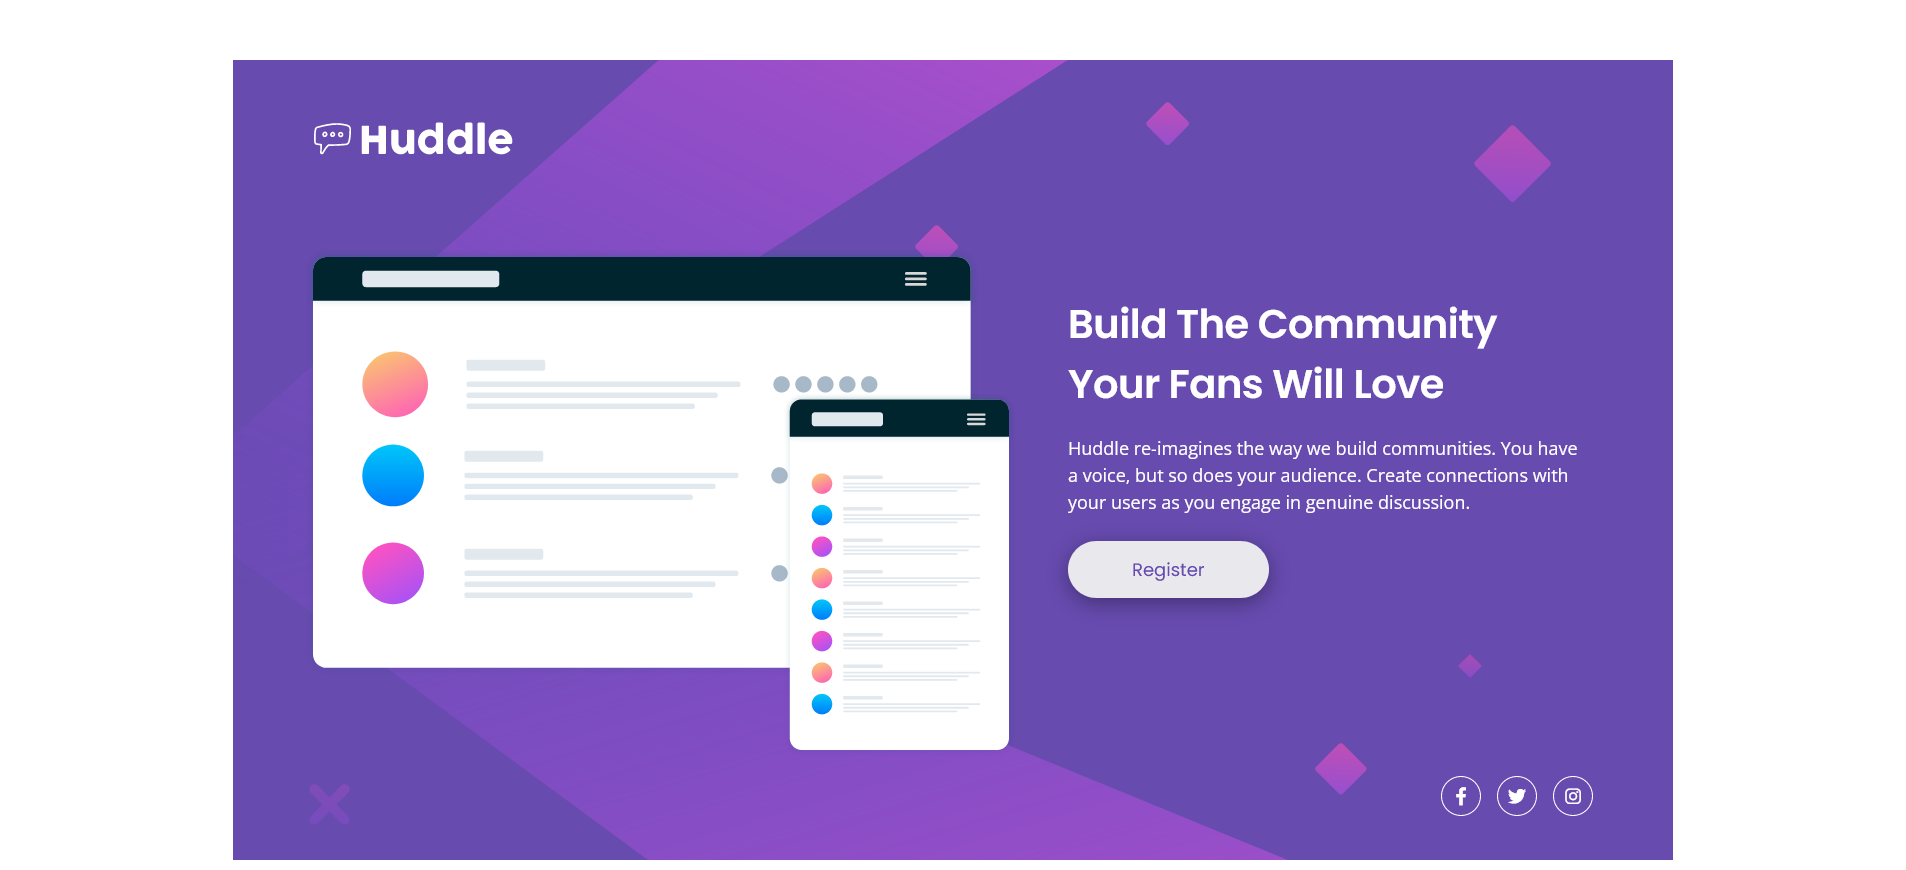
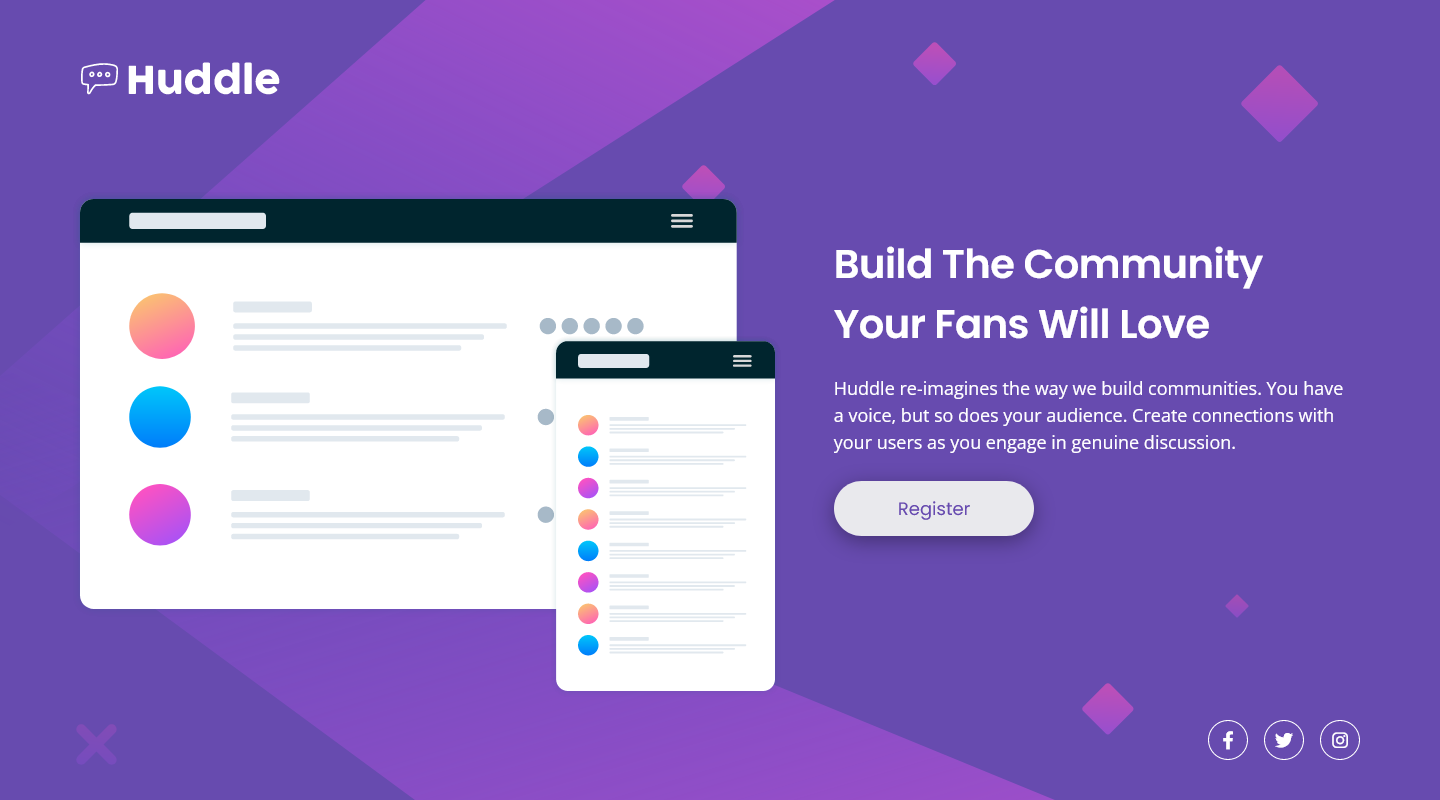
Add files via upload

diff --git a/style.css b/style.css
@@ -35,21 +35,28 @@ main {
 /* ------------CONTENT------------ */
 .content {
   display: grid;
-  grid-template-columns: 160fr 140fr;
+  grid-template-columns: 170fr 130fr;
+  grid-template-rows: 51rem;
   gap: 4.8rem;
   color: #fff;
+}
+.content-bg-img {
+  background-image: url(images/illustration-mockups.svg);
+  background-position: center;
+  background-repeat: no-repeat;
+  background-size: contain;
 }
 
 .text {
   padding: 4.4rem 2rem 0rem 0.5rem;
 }
-.text h1 {
+h1 {
   font-size: 4rem;
   letter-spacing: -0.5px;
   font-weight: 600;
   margin-bottom: 2.1rem;
 }
-.text p {
+p {
   font-family: "Open Sans", sans-serif;
   font-weight: 400;
   font-size: 1.8rem;
@@ -59,7 +66,7 @@ main {
 button {
   cursor: pointer;
   border: none;
-  padding: 1.5rem 6.4rem;
+  padding: 1.4rem 6.4rem;
   border-radius: 999px;
   font-size: 1.8rem;
   color: hsl(257, 40%, 49%);
@@ -104,25 +111,134 @@ button:hover {
 }
 
 /* media queries */
-/* 1312px */
-@media (max-width: 82em) {
+
+/* 1248px */
+@media (max-width: 78em) {
   main {
-    max-width: 37.5rem;
-    height: 100vh;
+    padding: 5rem 4rem 2rem 4.3rem;
+  }
+  .content {
+    gap: 4rem;
+    grid-template-columns: 165fr 135fr;
+  }
+  .text {
+    padding: 6.4rem 1rem 0rem 0.5rem;
+  }
+  h1 {
+    font-size: 3.6rem;
+    line-height: 1.5;
+  }
+  p {
+    font-size: 1.6rem;
+    line-height: 1.5;
+  }
+  button {
+    padding: 1.2rem 5rem;
+    font-size: 1.6rem;
+  }
+}
+
+/* 1088 */
+@media (max-width: 68em) {
+  main {
+    padding: 4rem 3rem 2rem 3.3rem;
+  }
+  .content {
+    gap: 3rem;
+  }
+  .text {
+    padding: 9rem 0rem 0rem 0rem;
+  }
+  h1 {
+    font-size: 3.2rem;
+  }
+  p {
+    font-size: 1.5rem;
+    line-height: 1.5;
+  }
+  button {
+    padding: 1rem 4.2rem;
+    font-size: 1.5rem;
+  }
+}
+
+/* 864px */
+@media (max-width: 54em) {
+  main {
+    max-width: 86.4rem;
+    height: 80rem;
+  }
+  .text {
+    align-self: center;
+    padding: 0rem;
+  }
+  h1 {
+    line-height: 1.2;
+    font-size: 2.8rem;
+  }
+}
+/* 720px */
+@media (max-width: 45em) {
+  main {
+    max-width: 100vw;
+    height: auto;
     padding: 3rem;
-    margin-top: 0;
     background: hsl(257, 40%, 49%) url(images/bg-mobile.svg);
     background-repeat: no-repeat;
+    background-size: contain;
   }
   .logo {
     margin-bottom: 5rem;
   }
   .logo-img {
-    width: 13.5rem;
+    width: 16rem;
   }
   .content {
     grid-template-columns: 1fr;
-    /* gap: 5rem; */
+    grid-template-rows: 1fr 1fr;
+    gap: 5rem;
+  }
+  .text {
+    text-align: center;
+  }
+
+  p {
+    width: 38rem;
+    margin: 0 auto;
+    margin-bottom: 2.5rem;
+  }
+
+  .socials {
+    display: flex;
+    justify-content: center;
+    margin-top: 5rem;
+  }
+}
+
+/* 480px */
+@media (max-width: 30em) {
+  body {
+    background-color: hsl(257, 40%, 49%);
+  }
+  main {
+    max-width: 100vw;
+    height: auto;
+    padding: 3rem 4rem;
+    margin-top: 0;
+    background: hsl(257, 40%, 49%) url(images/bg-mobile.svg);
+    background-repeat: no-repeat;
+    background-size: contain;
+  }
+  .logo {
+    margin-bottom: 5rem;
+  }
+  .logo-img {
+    width: 12.5rem;
+  }
+  .content {
+    grid-template-columns: 1fr;
+    grid-template-rows: 1fr 1fr;
+    gap: 3rem;
   }
   .content img {
     width: 100%;
@@ -133,11 +249,15 @@ button:hover {
     padding: 0;
     text-align: center;
   }
-  .text h1 {
+  h1 {
     font-size: 2.2rem;
     margin-bottom: 2.2rem;
+    letter-spacing: 1px;
+    line-height: 1.5;
   }
-  .text p {
+
+  p {
+    width: auto;
     font-size: 1.4rem;
     letter-spacing: 0.8px;
     line-height: 1.5;
@@ -157,7 +277,6 @@ button:hover {
   .social {
     width: 1.8rem;
     height: 1.8rem;
-    border-radius: 50%;
     padding: 1.2rem;
     cursor: pointer;
   }

diff --git a/index.html b/index.html
@@ -37,7 +37,7 @@
         <img class="logo-img" src="images/logo.svg" alt="Logo" />
       </div>
       <div class="content">
-        <img src="images/illustration-mockups.svg" alt="mockups illustration" />
+        <div class="content-bg-img"></div>
         <div class="text">
           <h1>
             Build The Community <br />
@@ -57,14 +57,5 @@
         <div class="social"><span class="icon fab fa-instagram"></span></div>
       </div>
     </main>
-
-    <!-- <footer>
-      <p class="attribution">
-        Challenge by
-        <a href="https://www.frontendmentor.io?ref=challenge" target="_blank"
-          >Frontend Mentor</a
-        >. Coded by <a href="#">Your Name Here</a>.
-      </p>
-    </footer> -->
   </body>
 </html>
